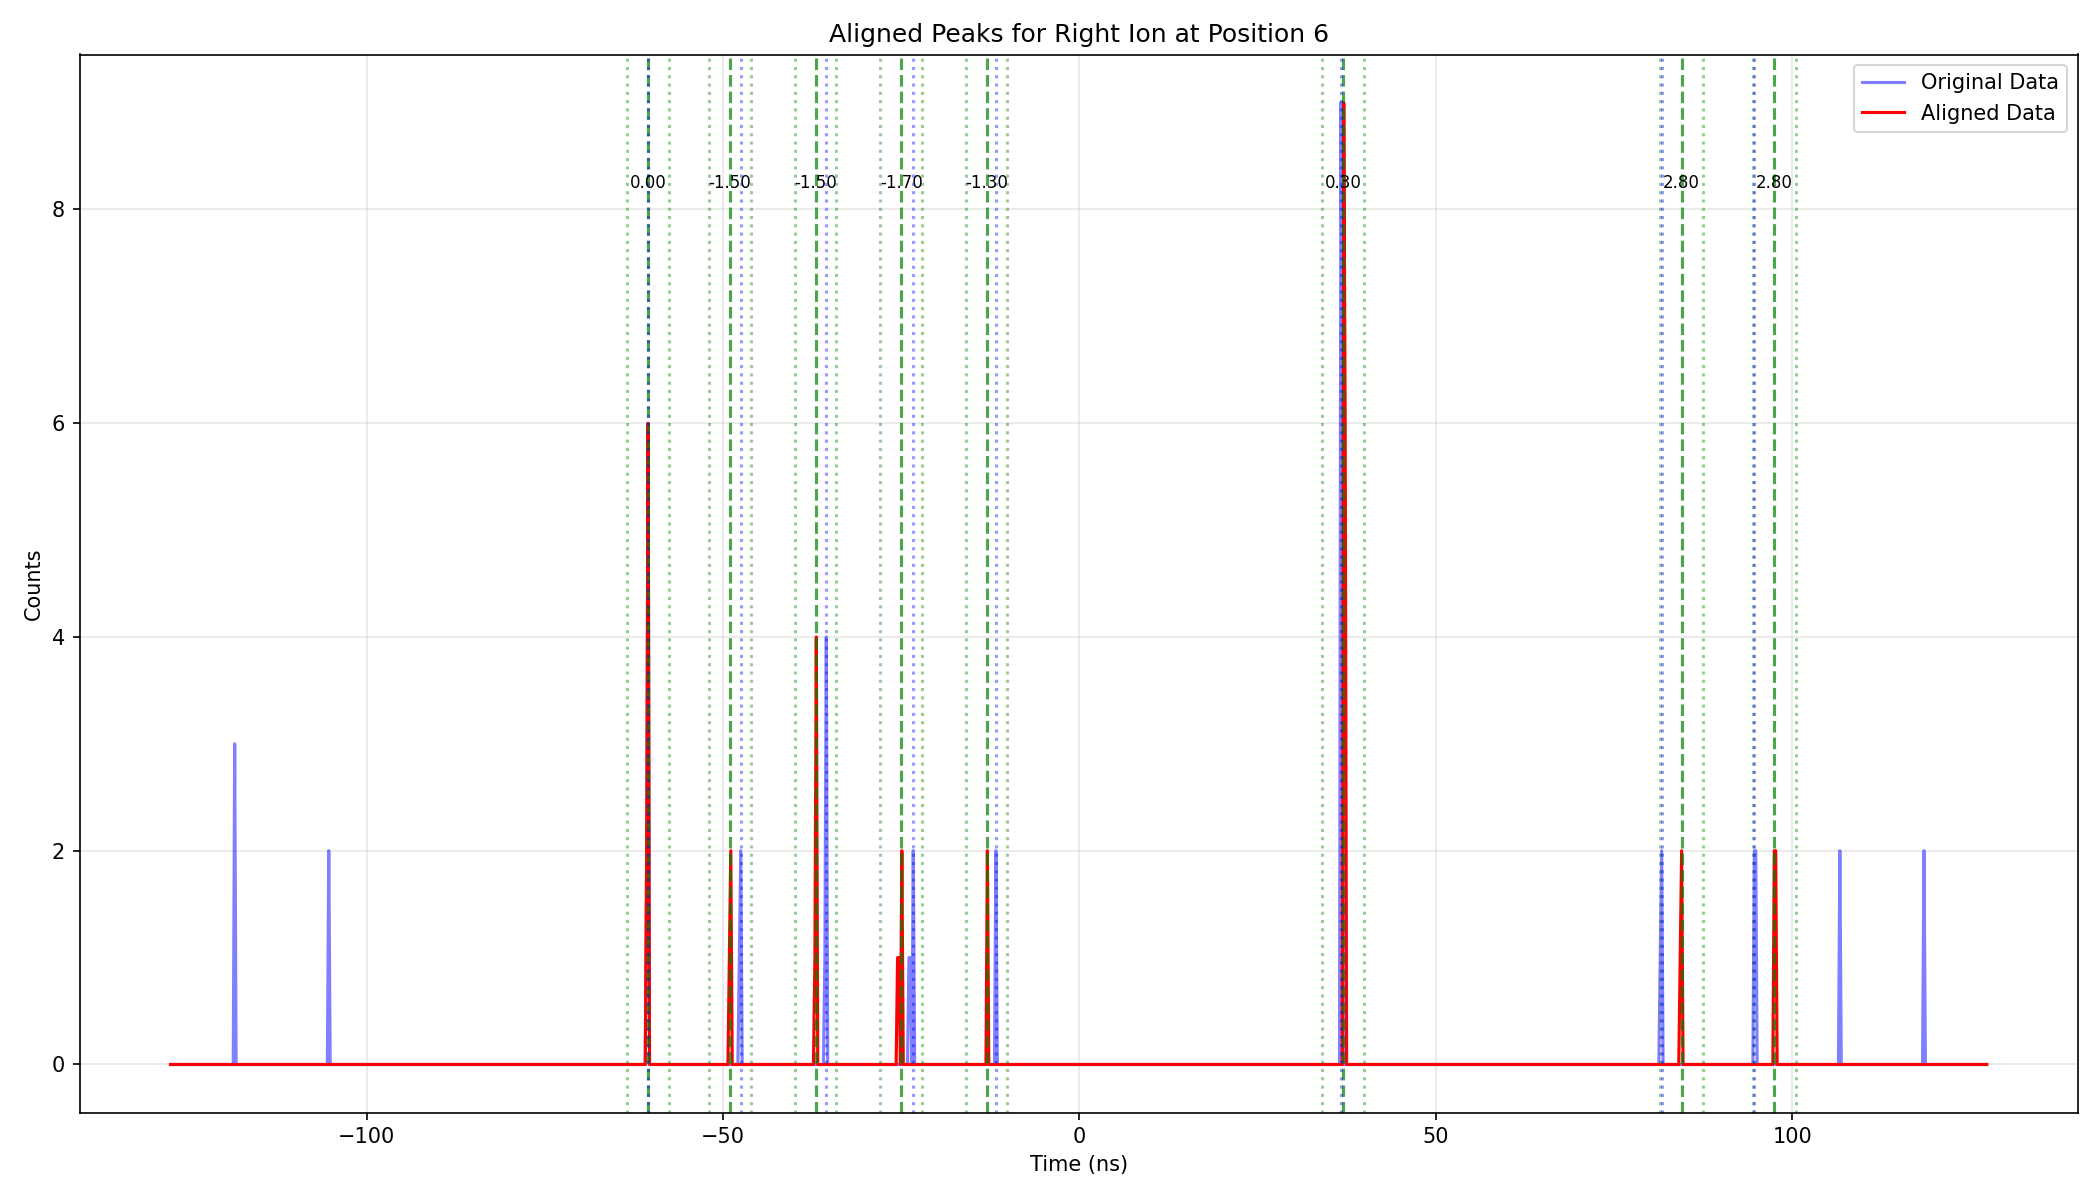
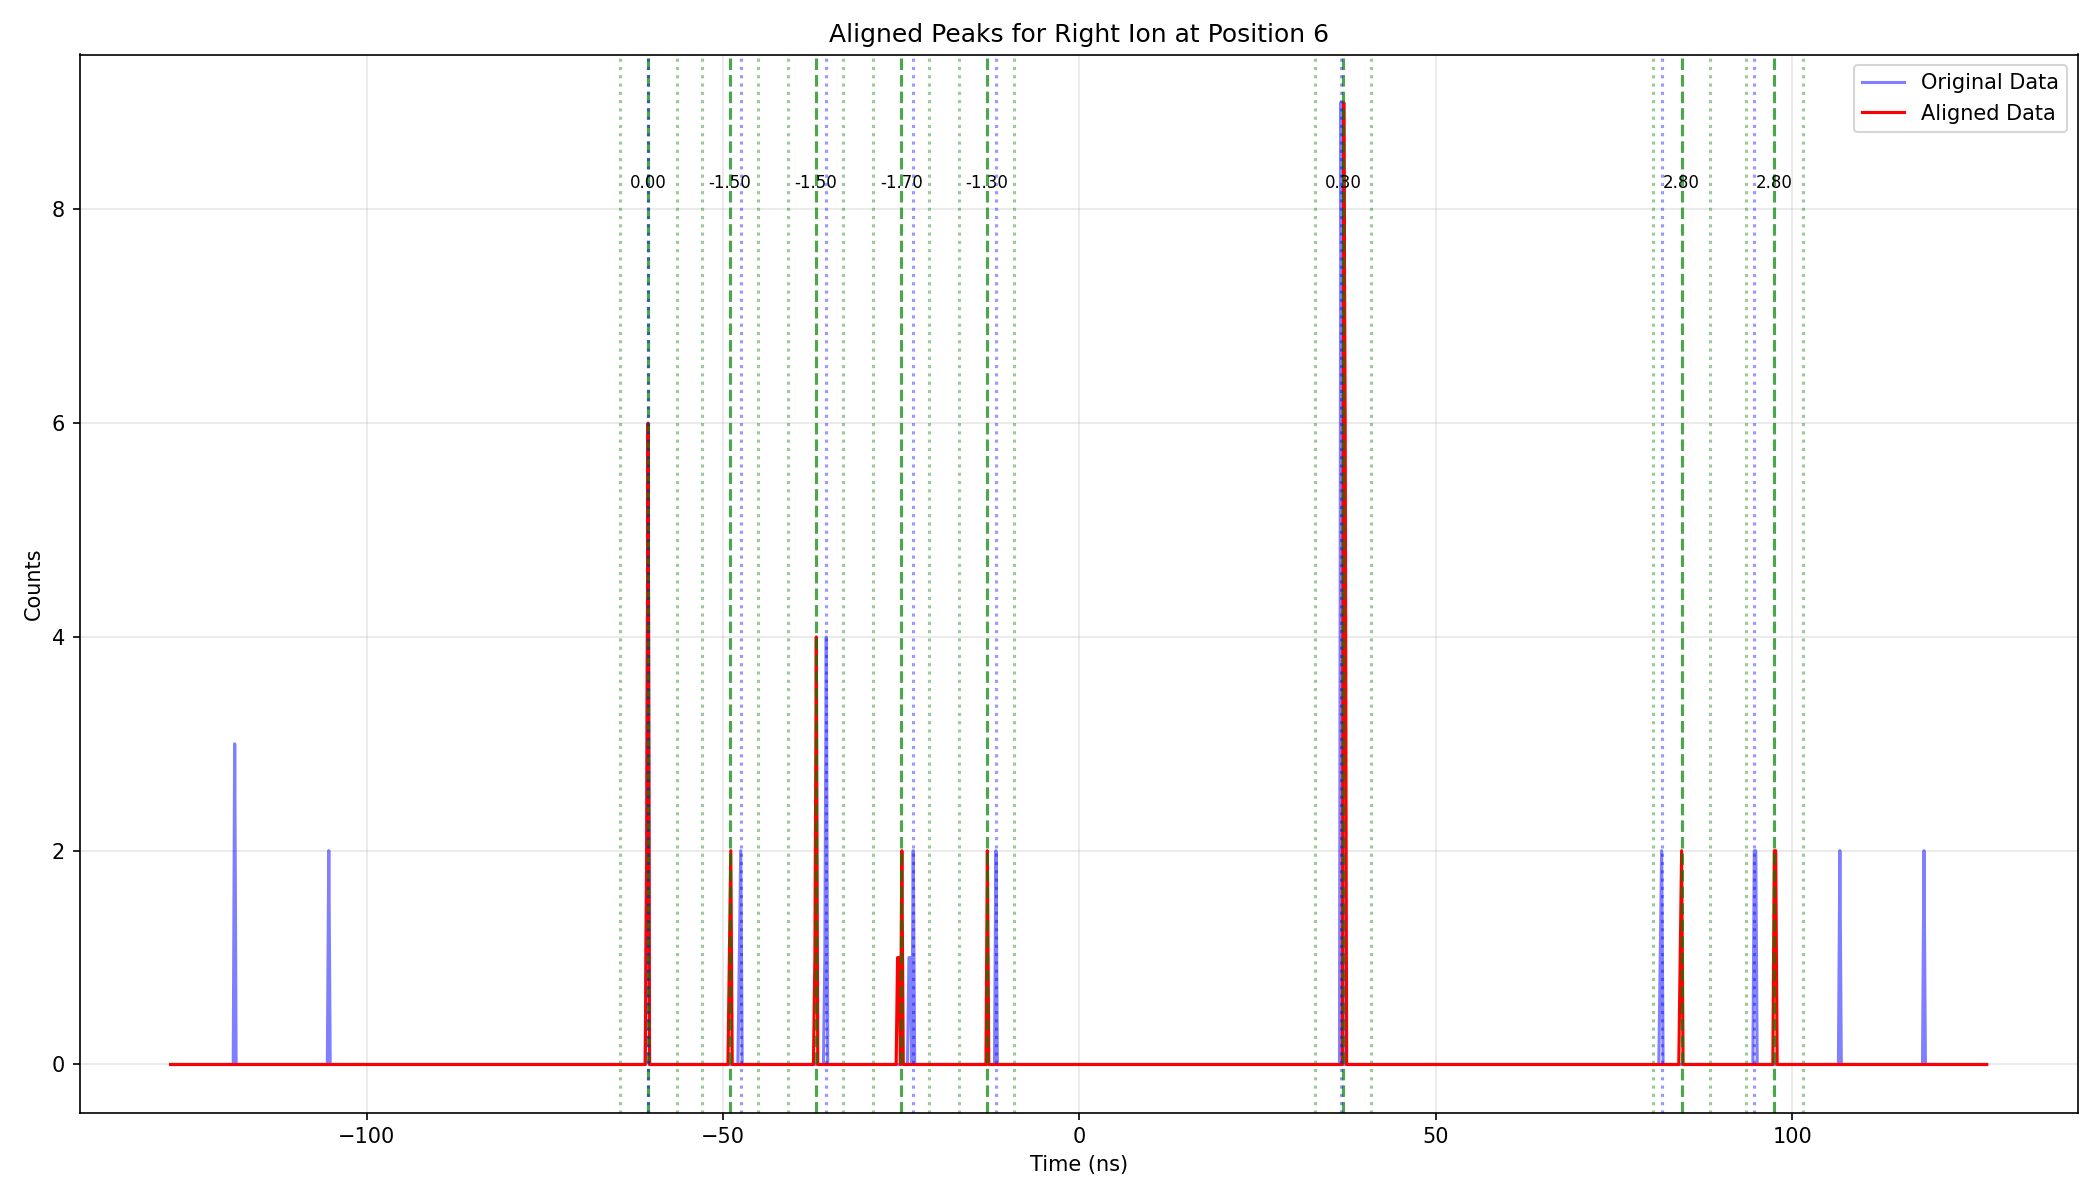
temp update

diff --git a/g2_data_processing/g2_data_cleanup_combine_peaks.py b/g2_data_processing/g2_data_cleanup_combine_peaks.py
@@ -13,7 +13,7 @@ time_window_scale = 1.0  # Adjust this value to scale all time window widths
 # Reordered from closest to center to furthest away (negative side)
 # Define window centers and base half-widths
 window_centers = -np.array([-13.0, -25.0, -37.0, -49.0, -60.5, -72.0, -84.5, -97.5])
-window_half_widths = np.array([2.0, 2.0, 2.0, 2.0, 2.0, 2.0, 2.0, 2.0]) * 1.5
+window_half_widths = np.array([2.0, 2.0, 2.0, 2.0, 2.0, 2.0, 2.0, 2.0]) * 2
 
 # Generate time windows with scaled widths
 time_windows = []
@@ -24,7 +24,7 @@ for center, half_width in zip(window_centers, window_half_widths):
 # Define corresponding positive time window centers and half-widths
 # Reordered from closest to center to furthest away (positive side)
 pos_window_centers = np.array([-13.0, -25.0, -37.0, -49.0, -60.5, -72.0, -84.5, -97.5])
-pos_window_half_widths = np.array([2.0, 2.0, 2.0, 2.0, 2.0, 2.0, 2.0, 2.0]) * 1.5
+pos_window_half_widths = np.array([2.0, 2.0, 2.0, 2.0, 2.0, 2.0, 2.0, 2.0]) * 2
 
 # Generate positive time windows with scaled widths
 pos_time_windows = []
@@ -46,7 +46,7 @@ def extract_peaks_in_windows(data, time_bins):
     peaks_info = {}
     
     # Process center peak first (assuming it exists around 0)
-    center_window = (-3.0, 3.0)
+    center_window = (-4.0, 4.0)
     center_mask = (time_bins >= center_window[0]) & (time_bins <= center_window[1])
     if np.any(center_mask):
         window_data = data[center_mask]
